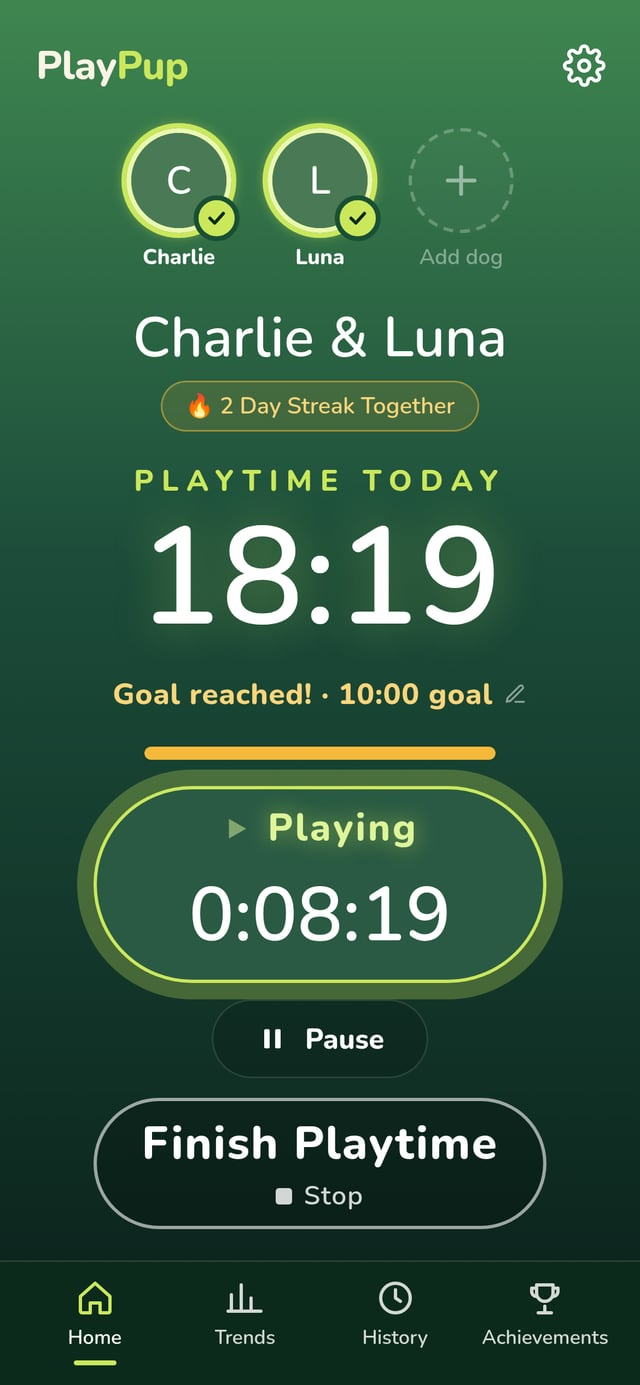
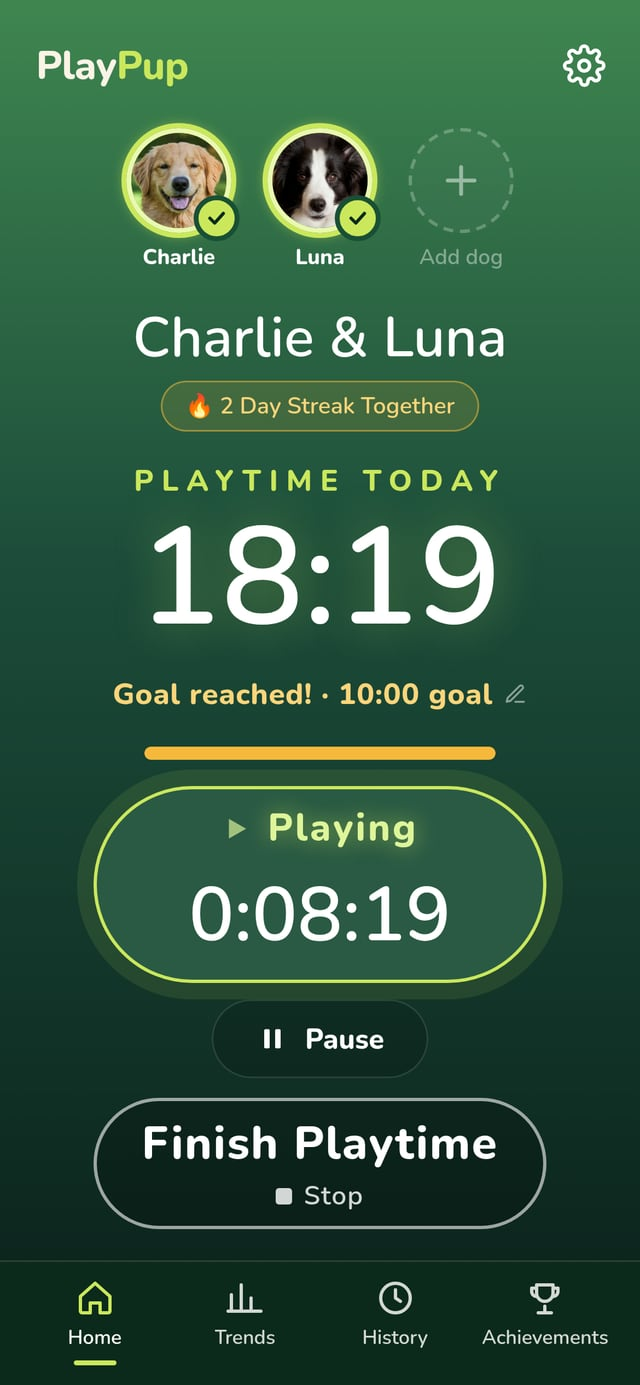
Screenshots: dog photos for Charlie and Luna (Unsplash, free license)
Credits recorded in README. Image links versioned (?v=2) so browsers
fetch the new screenshots right away.

Changed region(s): [[0.125, 0.5588, 0.875, 0.7451], [0.1875, 0.0931, 0.375, 0.1863], [0.4062, 0.0931, 0.5938, 0.1863]]

diff --git a/index.html b/index.html
@@ -48,19 +48,19 @@
         <h2 class="section-title" id="showcase-title">A Little Play Goes a Long Way</h2>
         <div class="phones">
           <figure class="phone-fig">
-            <div class="phone"><img src="assets/screens/home.jpg" alt="PlayPup Home screen: Charlie selected, 18 minutes of playtime today with the daily goal reached, a large Let's Play button, and this week's playtime bars" width="640" height="1385"></div>
+            <div class="phone"><img src="assets/screens/home.jpg?v=2" alt="PlayPup Home screen: Charlie selected, 18 minutes of playtime today with the daily goal reached, a large Let's Play button, and this week's playtime bars" width="640" height="1385"></div>
             <figcaption><b>Home</b>See today's playtime, reach your goals, and celebrate every minute together.</figcaption>
           </figure>
           <figure class="phone-fig">
-            <div class="phone"><img src="assets/screens/timer.jpg" alt="PlayPup timer running at 12 minutes, with Pause and Finish Playtime buttons" width="640" height="1385"></div>
+            <div class="phone"><img src="assets/screens/timer.jpg?v=2" alt="PlayPup timer running at 12 minutes, with Pause and Finish Playtime buttons" width="640" height="1385"></div>
             <figcaption><b>Timer</b>One tap to start. Pause or finish whenever you like.</figcaption>
           </figure>
           <figure class="phone-fig">
-            <div class="phone"><img src="assets/screens/together.jpg" alt="Playing together: Charlie and Luna both selected, a 2 Day Streak Together, and one timer running for both dogs" width="640" height="1385"></div>
+            <div class="phone"><img src="assets/screens/together.jpg?v=2" alt="Playing together: Charlie and Luna both selected, a 2 Day Streak Together, and one timer running for both dogs" width="640" height="1385"></div>
             <figcaption><b>Play Together</b>One timer, multiple happy pups. Track playtime with two or more dogs at once, giving each dog credit for every minute together.</figcaption>
           </figure>
           <figure class="phone-fig">
-            <div class="phone"><img src="assets/screens/trends.jpg" alt="PlayPup Trends: a 30-day playtime chart with total playtime, average per day and session count" width="640" height="1385"></div>
+            <div class="phone"><img src="assets/screens/trends.jpg?v=2" alt="PlayPup Trends: a 30-day playtime chart with total playtime, average per day and session count" width="640" height="1385"></div>
             <figcaption><b>Trends</b>See how your time together adds up, one day at a time.</figcaption>
           </figure>
         </div>

diff --git a/README.md b/README.md
@@ -1,3 +1,8 @@
 # playpup.app
 
 The PlayPup website: home, Support, Privacy Policy and Terms of Use. Plain HTML and CSS, served by GitHub Pages at https://playpup.app. No cookies, analytics or outside scripts or fonts.
+
+## Image credits
+Dog photos in the app screenshots are from Unsplash (free Unsplash License):
+- Charlie: golden retriever by Shayna Douglas (images.unsplash.com/photo-1633722714057-aaa9bf7f2383)
+- Luna: border collie by Chung Nguyen (images.unsplash.com/photo-1508109742312-c7d531211d11)
